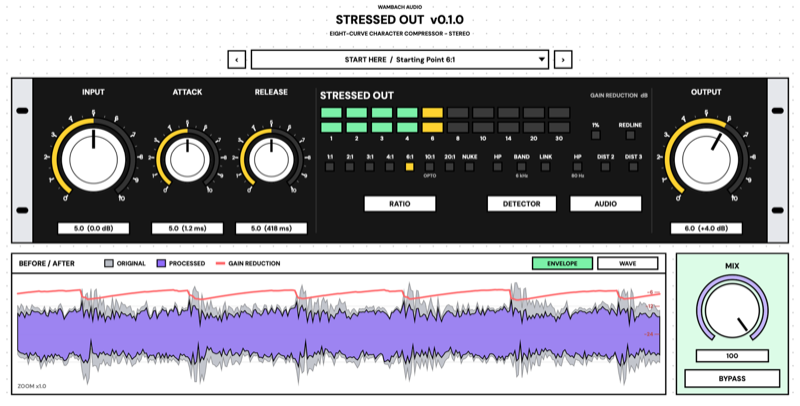
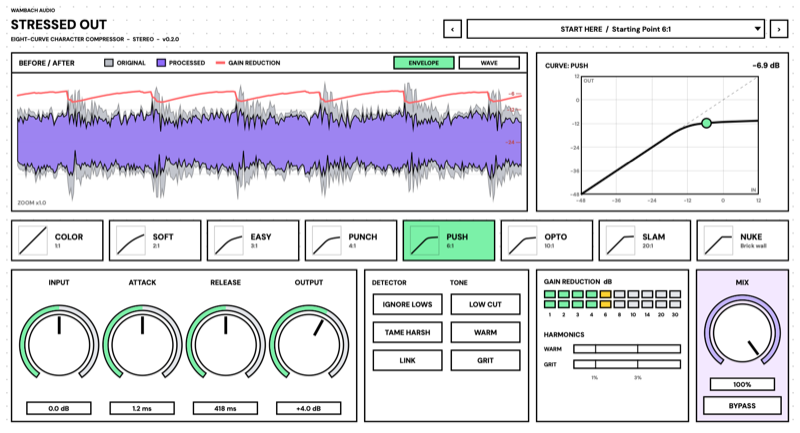
Stressed Out 0.2.0: new description and screenshot

diff --git a/README.md b/README.md
@@ -87,8 +87,9 @@ using, only while the vocal is there. Plugin only, no standalone app.
 
 ## StressedOut
 
-A character compressor with eight curves, from a gentle 1:1 up to an all-out
-"Nuke", plus a before/after display of what it's doing.
+A character compressor with eight named curves, from Color (1:1) up to an
+all-out Nuke. Pick a curve by its shape, watch the signal ride it on a live
+curve graph, and add Warm or Grit harmonics. Includes a before/after display.
 
 <img src="images/stressed-out.png" alt="StressedOut" width="600">
 
